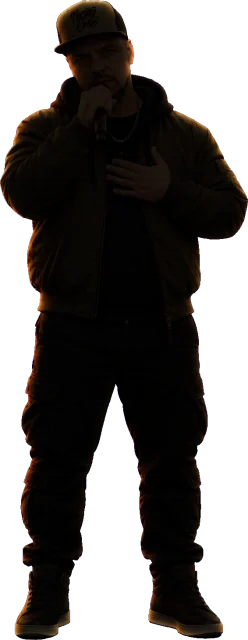
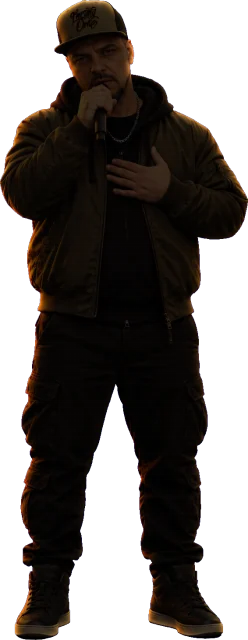
Skeli v sále: světlejší, užší (celý za opěradlem, rukáv nepřečuhuje), postoje se prolínají přes sebe bez průhlednosti a při vstávání malý pohyb nahoru

diff --git a/src/main/webapp/js/premiera-sal.js b/src/main/webapp/js/premiera-sal.js
@@ -304,12 +304,12 @@
   var DIVAK_SIRE = 0.76, DIVAK_ZAPUST = 0.07;   // ramena 76 % šířky sedadla, o 7 % šířky sedadla níž za opěradlo
   var SKELI_SEDADLO = 27, SK = { w: 512, h: 768, top: 519, sl: 50, sr: 462 };
   var skeliEl = null, skeliSvetlo = null, skeliSt = null, skeliVSale = false;
-  var SK_CESTA = '/img/premiera/kino/skeli/', SK_V = '?v=1';
+  var SK_CESTA = '/img/premiera/kino/skeli/', SK_V = '?v=2';   // v=2: světlejší (25. 11.)
   function postavSkeli(st) {
     if (!st) return;
     skeliSt = st;
     // stejně menší a zapuštěný jako ostatní diváci (sedadlo v obrázku se ořízne po křivce, nevadí, že nesedí přesně)
-    var sw = st.x1 - st.x0, k = sw / (SK.sr - SK.sl) * DIVAK_SIRE / 0.86, xc = (st.x0 + st.x1) / 2;
+    var sw = st.x1 - st.x0, k = sw / (SK.sr - SK.sl) * 0.78, xc = (st.x0 + st.x1) / 2;   // Skeli: celý za opěradlem (rukáv nepřečuhuje)
     var left = xc - (SK.sl + SK.sr) / 2 * k, top = st.top - SK.top * k + sw * DIVAK_ZAPUST, w = SK.w * k, h = SK.h * k;
     var horni = Math.min.apply(null, st.c.map(function (p) { return p[1]; }));
     var Y = function (y) { return ((y - top) / h * 100).toFixed(2) + '%'; }, X = function (x) { return ((x - left) / w * 100).toFixed(2) + '%'; };
@@ -318,7 +318,7 @@
     d.className = 'pm-divak ma-ruce pm-skeli';
     d.style.cssText = 'left:' + (left / W * 100) + '%;top:' + (top / H * 100) + '%;width:' + (w / W * 100) + '%;height:' + (h / H * 100) + '%;clip-path:polygon(' + poly.join(',') + ')';
     d.style.setProperty('--zpozdeni', (((st.x0 + st.x1) / 2) / W * 1.2 + st.r * 0.03).toFixed(2) + 's');
-    [['sedi', 'zaklad'], ['ruce', 'ruce'], ['vstava', 'f f-vstava'], ['stoji', 'f f-stoji'], ['otocka', 'f celem f-otocka'], ['mikrofon', 'f celem f-mikrofon'],
+    [['sedi', 'zaklad on'], ['ruce', 'ruce'], ['vstava', 'f f-vstava'], ['stoji', 'f f-stoji'], ['otocka', 'f celem f-otocka'], ['mikrofon', 'f celem f-mikrofon'],
       ['mluvi', 'f celem f-mluvi'], ['mluvi2', 'f celem f-mluvi2'], ['srdce', 'f celem f-srdce'], ['gesto', 'f celem f-gesto']].forEach(function (x) {
       var im = document.createElement('img'); im.className = x[1]; im.src = SK_CESTA + x[0] + '.webp' + SK_V; im.alt = ''; im.decoding = 'async'; d.appendChild(im);
     });
@@ -342,10 +342,21 @@
         : z > 31.2 ? 'mluvi' : z > 30.6 ? 'mikrofon' : z > 30 ? 'otocka' : z > 29.4 ? 'stoji' : 'vstava';
     }
     skeliEl.classList.toggle('sedi', skeliVSale);
-    if (skeliEl.dataset.s !== s) skeliEl.dataset.s = s;
+    if (skeliEl.dataset.s !== s) { skeliEl.dataset.s = s; skSnimek(s); }
     skeliSvetlo.classList.toggle('on', skeliVSale && z <= 51 && z > 29.4);
   }
   function skeliTik(zbyva) { skeliScena(zbyva / 1000); }
+  // jako v animaci: nový postoj se plynule položí přes starý (nikdy není průhledný – Skeli: „problikávám“), starý zmizí až pak
+  var skVrch = 10, skMinuly = null;
+  function skSnimek(s) {
+    var im = skeliEl.querySelector(s ? 'img.f-' + s : 'img.zaklad');
+    if (!im) return;
+    if (!skMinuly) skMinuly = skeliEl.querySelector('img.zaklad');
+    if (im === skMinuly) return;
+    var stary = skMinuly; skMinuly = im;
+    im.style.zIndex = ++skVrch; im.classList.add('on');
+    setTimeout(function () { if (stary !== skMinuly) { stary.classList.add('hned'); stary.classList.remove('on'); void stary.offsetWidth; stary.classList.remove('hned'); } }, 420);
+  }
 
   function vlna() {
     if (jeviste.classList.contains('klid') || klid || vyp.efekty) return;
@@ -353,7 +364,7 @@
     hlaska(T.tWave);
     if (window.PmZvuky) window.PmZvuky.vlna();
     mista.slice(0, ukazano).forEach(function (m) { m.el.classList.remove('vlna'); void m.el.offsetWidth; m.el.classList.add('vlna'); });
-    if (skeliEl && skeliEl.classList.contains('sedi')) { skeliEl.classList.remove('vlna'); void skeliEl.offsetWidth; skeliEl.classList.add('vlna'); }
+    if (skeliEl && skeliEl.classList.contains('sedi') && !skeliEl.dataset.s) { skeliEl.classList.remove('vlna'); void skeliEl.offsetWidth; skeliEl.classList.add('vlna'); }
   }
 
   // ---------- chat ----------

diff --git a/src/main/webapp/css/premiera.css b/src/main/webapp/css/premiera.css
@@ -719,12 +719,15 @@ main.pm .pm-nalady button { display: grid; gap: 3px; justify-items: center; alig
 .pm-nal-fs-pas i { display: block; flex-basis: 0; background: var(--c); transition: flex-grow .8s; }
 
 /* SKELI V SÁLE (js/premiera-sal.js): avatar na pevném místě – sedí / vstává / stojí při pozdravu, reflektor nad ním */
-.pm-skeli img.f { opacity: 0; transition: opacity .55s ease; }
-.pm-skeli img.zaklad { transition: transform .9s cubic-bezier(.2, .8, .2, 1), opacity .55s ease; }
-.pm-skeli[data-s]:not([data-s=""]) img.zaklad { opacity: 0; }
-.pm-skeli[data-s="vstava"] img.f-vstava, .pm-skeli[data-s="stoji"] img.f-stoji, .pm-skeli[data-s="otocka"] img.f-otocka,
-.pm-skeli[data-s="mikrofon"] img.f-mikrofon, .pm-skeli[data-s="mluvi"] img.f-mluvi, .pm-skeli[data-s="mluvi2"] img.f-mluvi2,
-.pm-skeli[data-s="srdce"] img.f-srdce, .pm-skeli[data-s="gesto"] img.f-gesto { opacity: 1; }
+/* postoje se prolínají PŘES sebe (js skSnimek): nový nahoře se objeví, starý zmizí až potom – nikdy průhledný */
+.pm-skeli img.f, .pm-skeli img.zaklad { opacity: 0; transition: opacity .38s ease; }
+.pm-skeli img.zaklad { transition: transform .9s cubic-bezier(.2, .8, .2, 1), opacity .38s ease; }
+.pm-skeli img.on { opacity: 1; }
+.pm-skeli img.hned { transition: none; }
+/* vstávání a stání: malý pohyb nahoru, ať to působí jako zvedání (ne jen výměna obrázku) */
+.pm-skeli img.f-vstava.on { animation: sk-zvedni .5s ease-out both; }
+.pm-skeli img.f-stoji.on { animation: sk-zvedni .45s ease-out both; }
+@keyframes sk-zvedni { from { transform: translateY(3.5%); } to { transform: none; } }
 /* stojí čelem: celá postava stejně velká jako „stojí zezadu“ (hlava nahoře ve 1,7 %, celková výška 120 % prvku –
    nohy pod opěradlem se ořízne křivka sedadla), uprostřed sedadla */
 .pm-divak.pm-skeli img.celem { left: 50%; top: 1.7%; width: auto; height: 120%; max-width: none; transform: translateX(-50%); }
